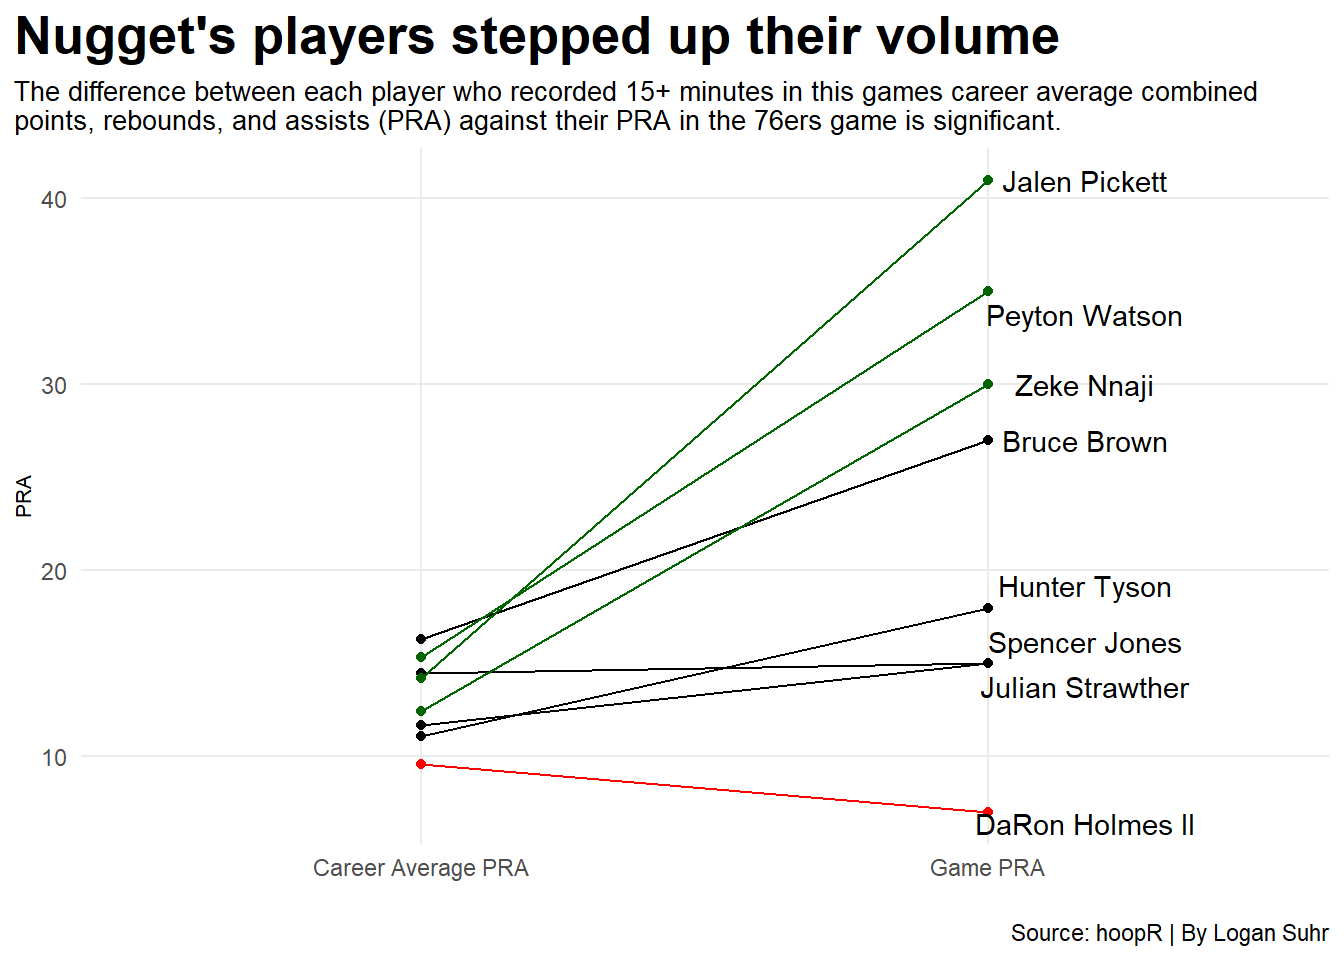
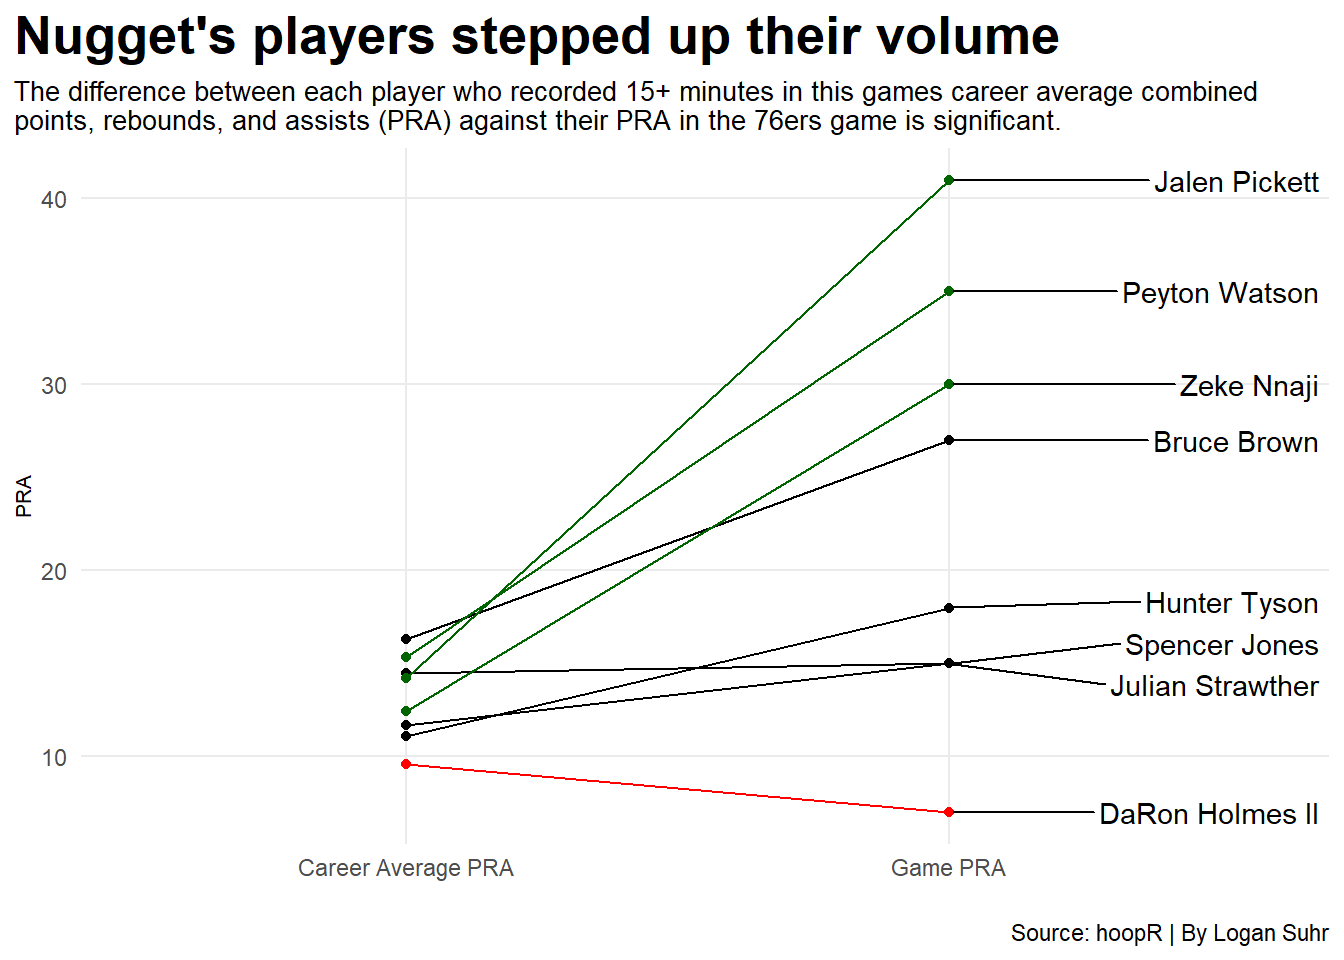
finalhopefullyproject2

diff --git a/posts/how-did-the-nuggets-win-this-game/index.html b/posts/how-did-the-nuggets-win-this-game/index.html
@@ -477,7 +477,7 @@ pre > code.sourceCode > span > a:first-child::before { text-decoration: underlin
 <span id="cb3-24"><a href="#cb3-24" aria-hidden="true" tabindex="-1"></a>  <span class="fu">geom_point</span>(<span class="at">data=</span>DH2, <span class="fu">aes</span>(<span class="at">x=</span>difference, <span class="at">y=</span>PRA, <span class="at">group=</span>athlete), <span class="at">color=</span><span class="st">"red"</span>) <span class="sc">+</span></span>
 <span id="cb3-25"><a href="#cb3-25" aria-hidden="true" tabindex="-1"></a>  <span class="fu">geom_line</span>(<span class="at">data=</span>PJZ, <span class="fu">aes</span>(<span class="at">x=</span>difference, <span class="at">y=</span>PRA, <span class="at">group=</span>athlete), <span class="at">color=</span><span class="st">"darkgreen"</span>) <span class="sc">+</span></span>
 <span id="cb3-26"><a href="#cb3-26" aria-hidden="true" tabindex="-1"></a>  <span class="fu">geom_point</span>(<span class="at">data=</span>PJZ, <span class="fu">aes</span>(<span class="at">x=</span>difference, <span class="at">y=</span>PRA, <span class="at">group=</span>athlete), <span class="at">color=</span><span class="st">"darkgreen"</span>) <span class="sc">+</span></span>
-<span id="cb3-27"><a href="#cb3-27" aria-hidden="true" tabindex="-1"></a>   <span class="fu">geom_text_repel</span>(<span class="at">data=</span>career_game_pra_long <span class="sc">|&gt;</span> <span class="fu">filter</span>(difference <span class="sc">==</span> <span class="fu">max</span>(difference)), <span class="fu">aes</span>(<span class="at">x=</span>difference, <span class="at">y=</span>PRA, <span class="at">group=</span>athlete, <span class="at">label=</span>athlete),<span class="at">direction =</span> <span class="st">"y"</span>, <span class="at">nudge_x =</span> .<span class="dv">17095</span>) <span class="sc">+</span></span>
+<span id="cb3-27"><a href="#cb3-27" aria-hidden="true" tabindex="-1"></a>   <span class="fu">geom_text_repel</span>(<span class="at">data=</span>career_game_pra_long <span class="sc">|&gt;</span> <span class="fu">filter</span>(difference <span class="sc">==</span> <span class="fu">max</span>(difference)), <span class="fu">aes</span>(<span class="at">x=</span>difference, <span class="at">y=</span>PRA, <span class="at">group=</span>athlete, <span class="at">label=</span>athlete),<span class="at">direction =</span> <span class="st">"y"</span>, <span class="at">nudge_x =</span> .<span class="dv">7</span>) <span class="sc">+</span></span>
 <span id="cb3-28"><a href="#cb3-28" aria-hidden="true" tabindex="-1"></a>   <span class="fu">labs</span>(<span class="at">title=</span><span class="st">"Nugget's players stepped up their volume"</span>, <span class="at">subtitle=</span><span class="st">"The difference between each player who recorded 15+ minutes in this games career average combined </span><span class="sc">\n</span><span class="st">points, rebounds, and assists (PRA) against their PRA in the 76ers game is significant."</span>, <span class="at">y=</span> <span class="st">"PRA"</span>, <span class="at">x =</span> <span class="st">""</span>, <span class="at">caption=</span><span class="st">"Source: hoopR | By Logan Suhr"</span>)<span class="sc">+</span></span>
 <span id="cb3-29"><a href="#cb3-29" aria-hidden="true" tabindex="-1"></a>   <span class="fu">theme_minimal</span>() <span class="sc">+</span></span>
 <span id="cb3-30"><a href="#cb3-30" aria-hidden="true" tabindex="-1"></a>   <span class="fu">theme</span>(</span>

diff --git a/index.html b/index.html
@@ -377,10 +377,10 @@ window.Quarto = {
 
 <div class="quarto-listing quarto-listing-container-default" id="listing-listing">
 <div class="list quarto-listing-default">
-<div class="quarto-post image-right" data-index="0" data-categories="TkJBJTJDTnVnZ2V0cyUyQ0RlbnZlcg==" data-listing-date-sort="1777006800000" data-listing-file-modified-sort="1777012119959" data-listing-date-modified-sort="NaN" data-listing-reading-time-sort="8" data-listing-word-count-sort="1421">
+<div class="quarto-post image-right" data-index="0" data-categories="TkJBJTJDTnVnZ2V0cyUyQ0RlbnZlcg==" data-listing-date-sort="1777006800000" data-listing-file-modified-sort="1777013869897" data-listing-date-modified-sort="NaN" data-listing-reading-time-sort="8" data-listing-word-count-sort="1421">
 <div class="thumbnail"><a href="./posts/how-did-the-nuggets-win-this-game/index.html" class="no-external">
 
-<img loading="lazy" src="./posts/how-did-the-nuggets-win-this-game/image1.png" class="thumbnail-image">
+<img loading="lazy" src="./posts/how-did-the-nuggets-win-this-game/image11.png" class="thumbnail-image">
 
 </a></div>
 <div class="body">
